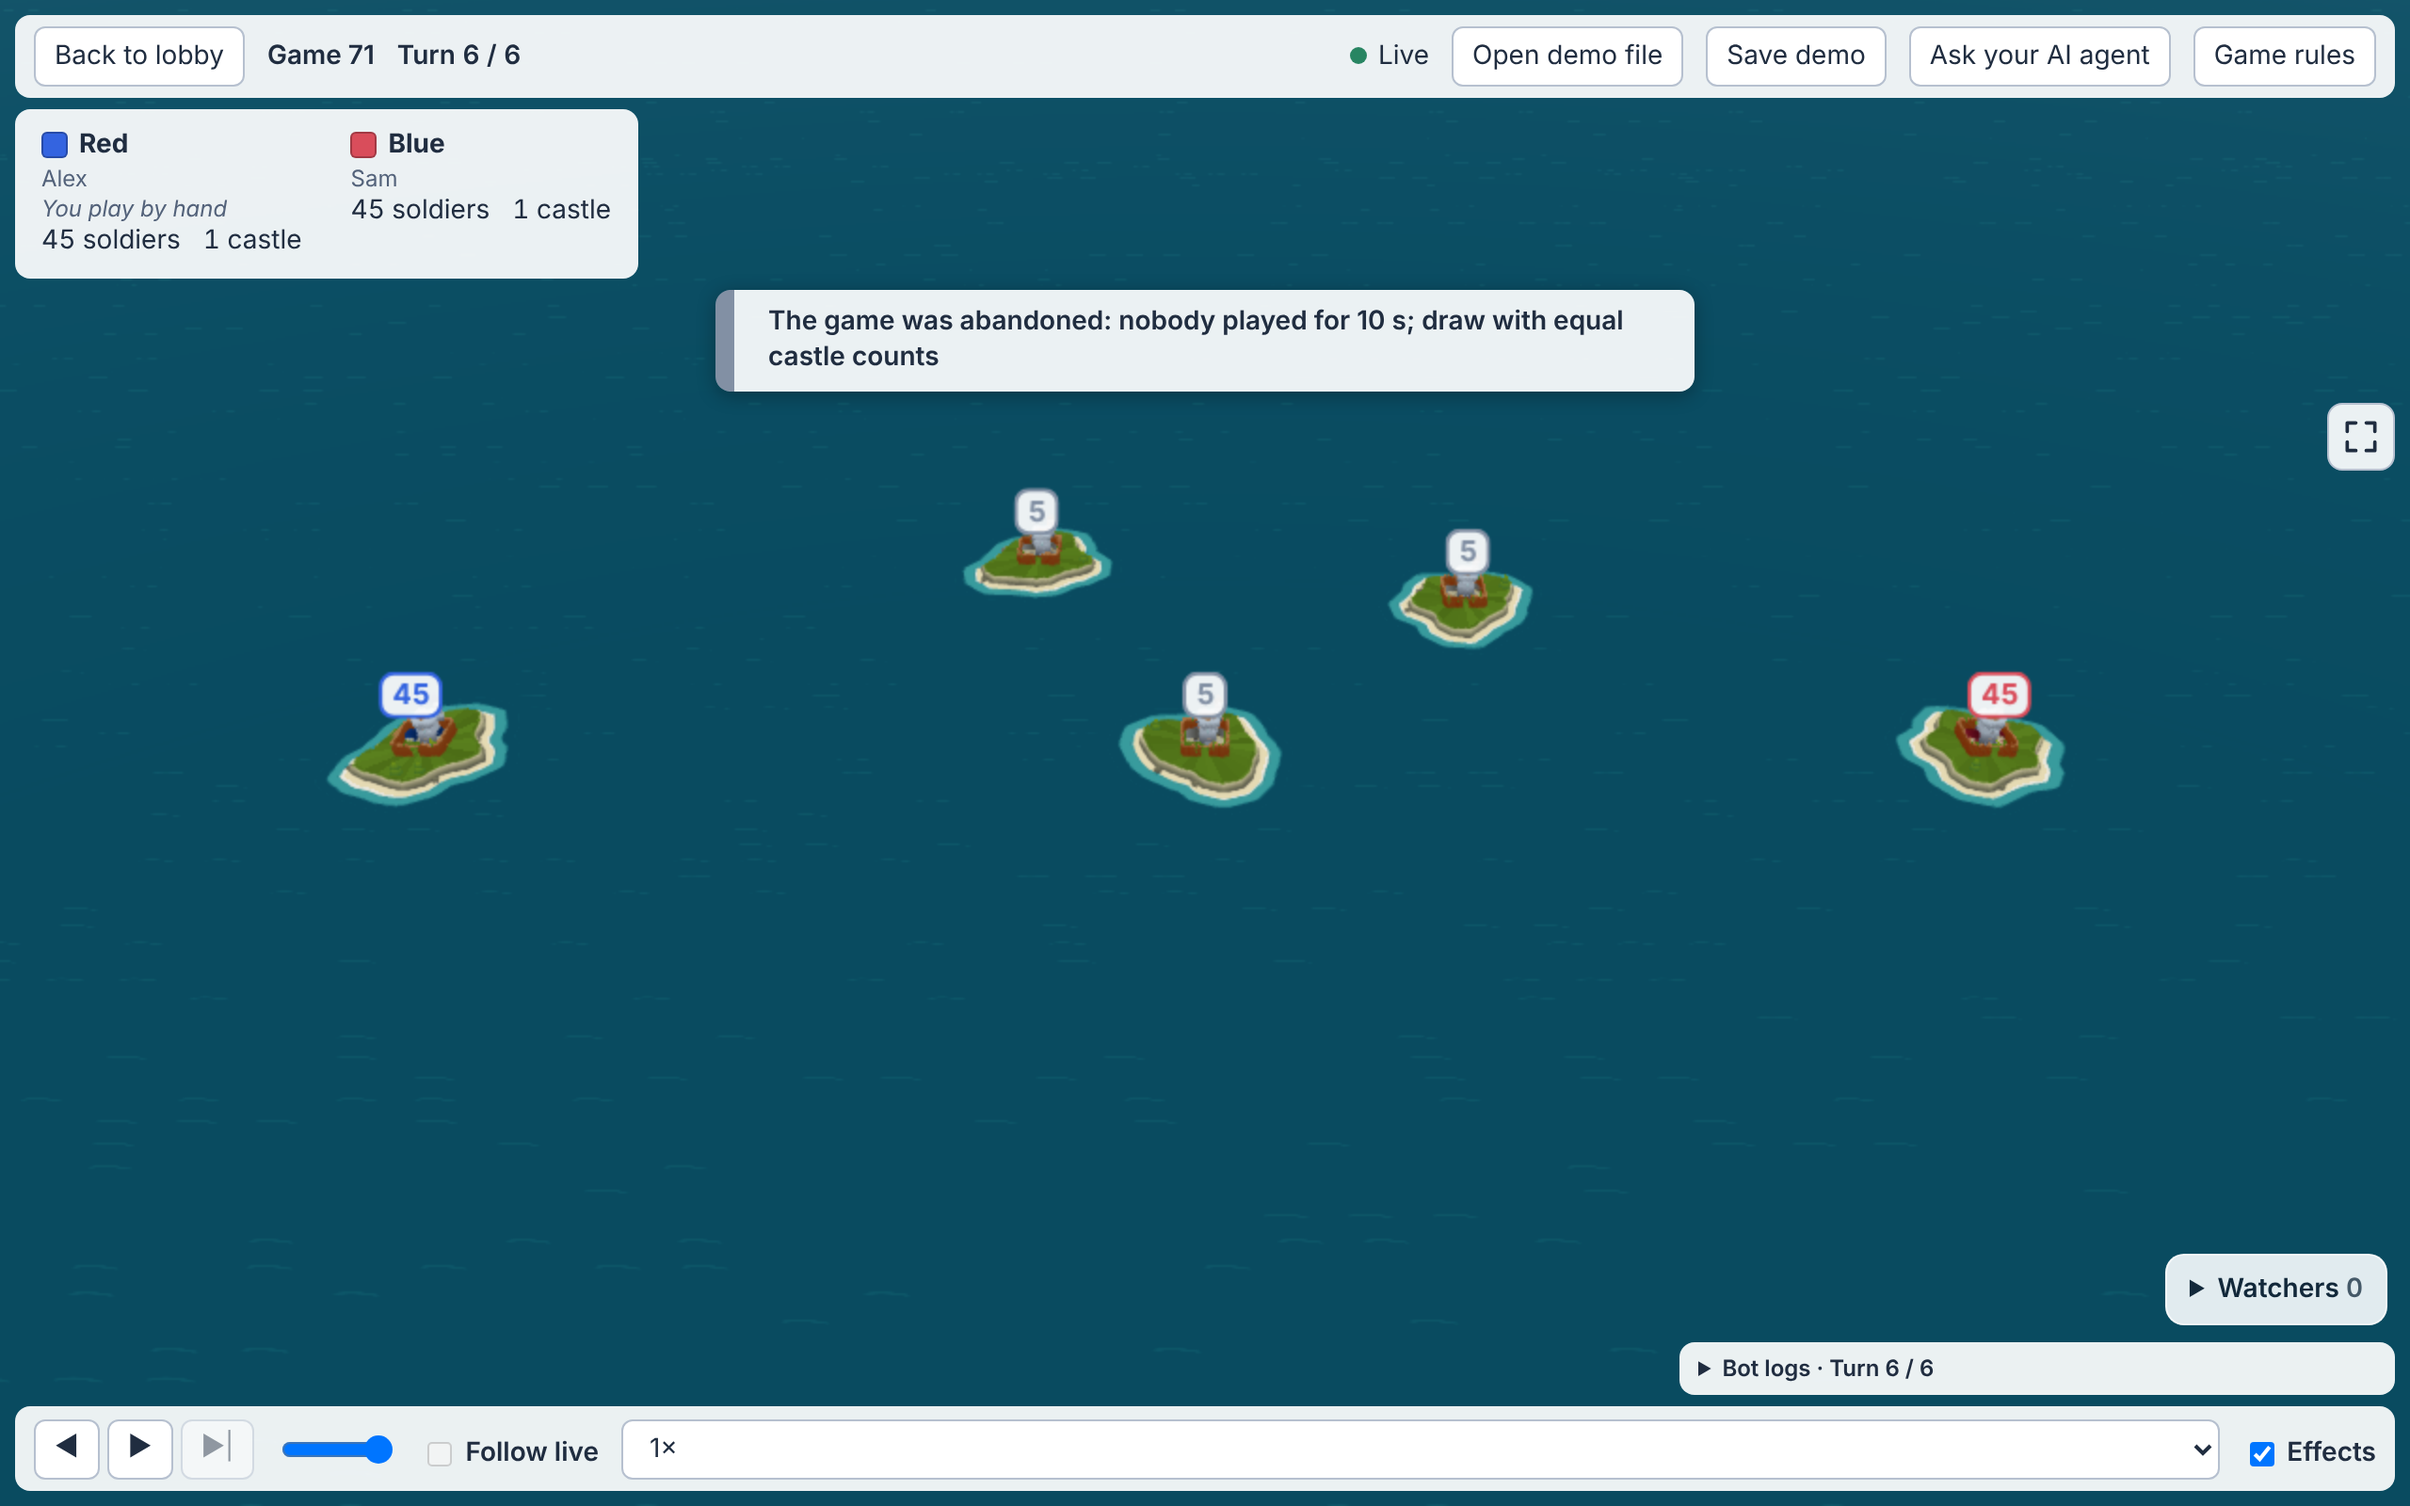
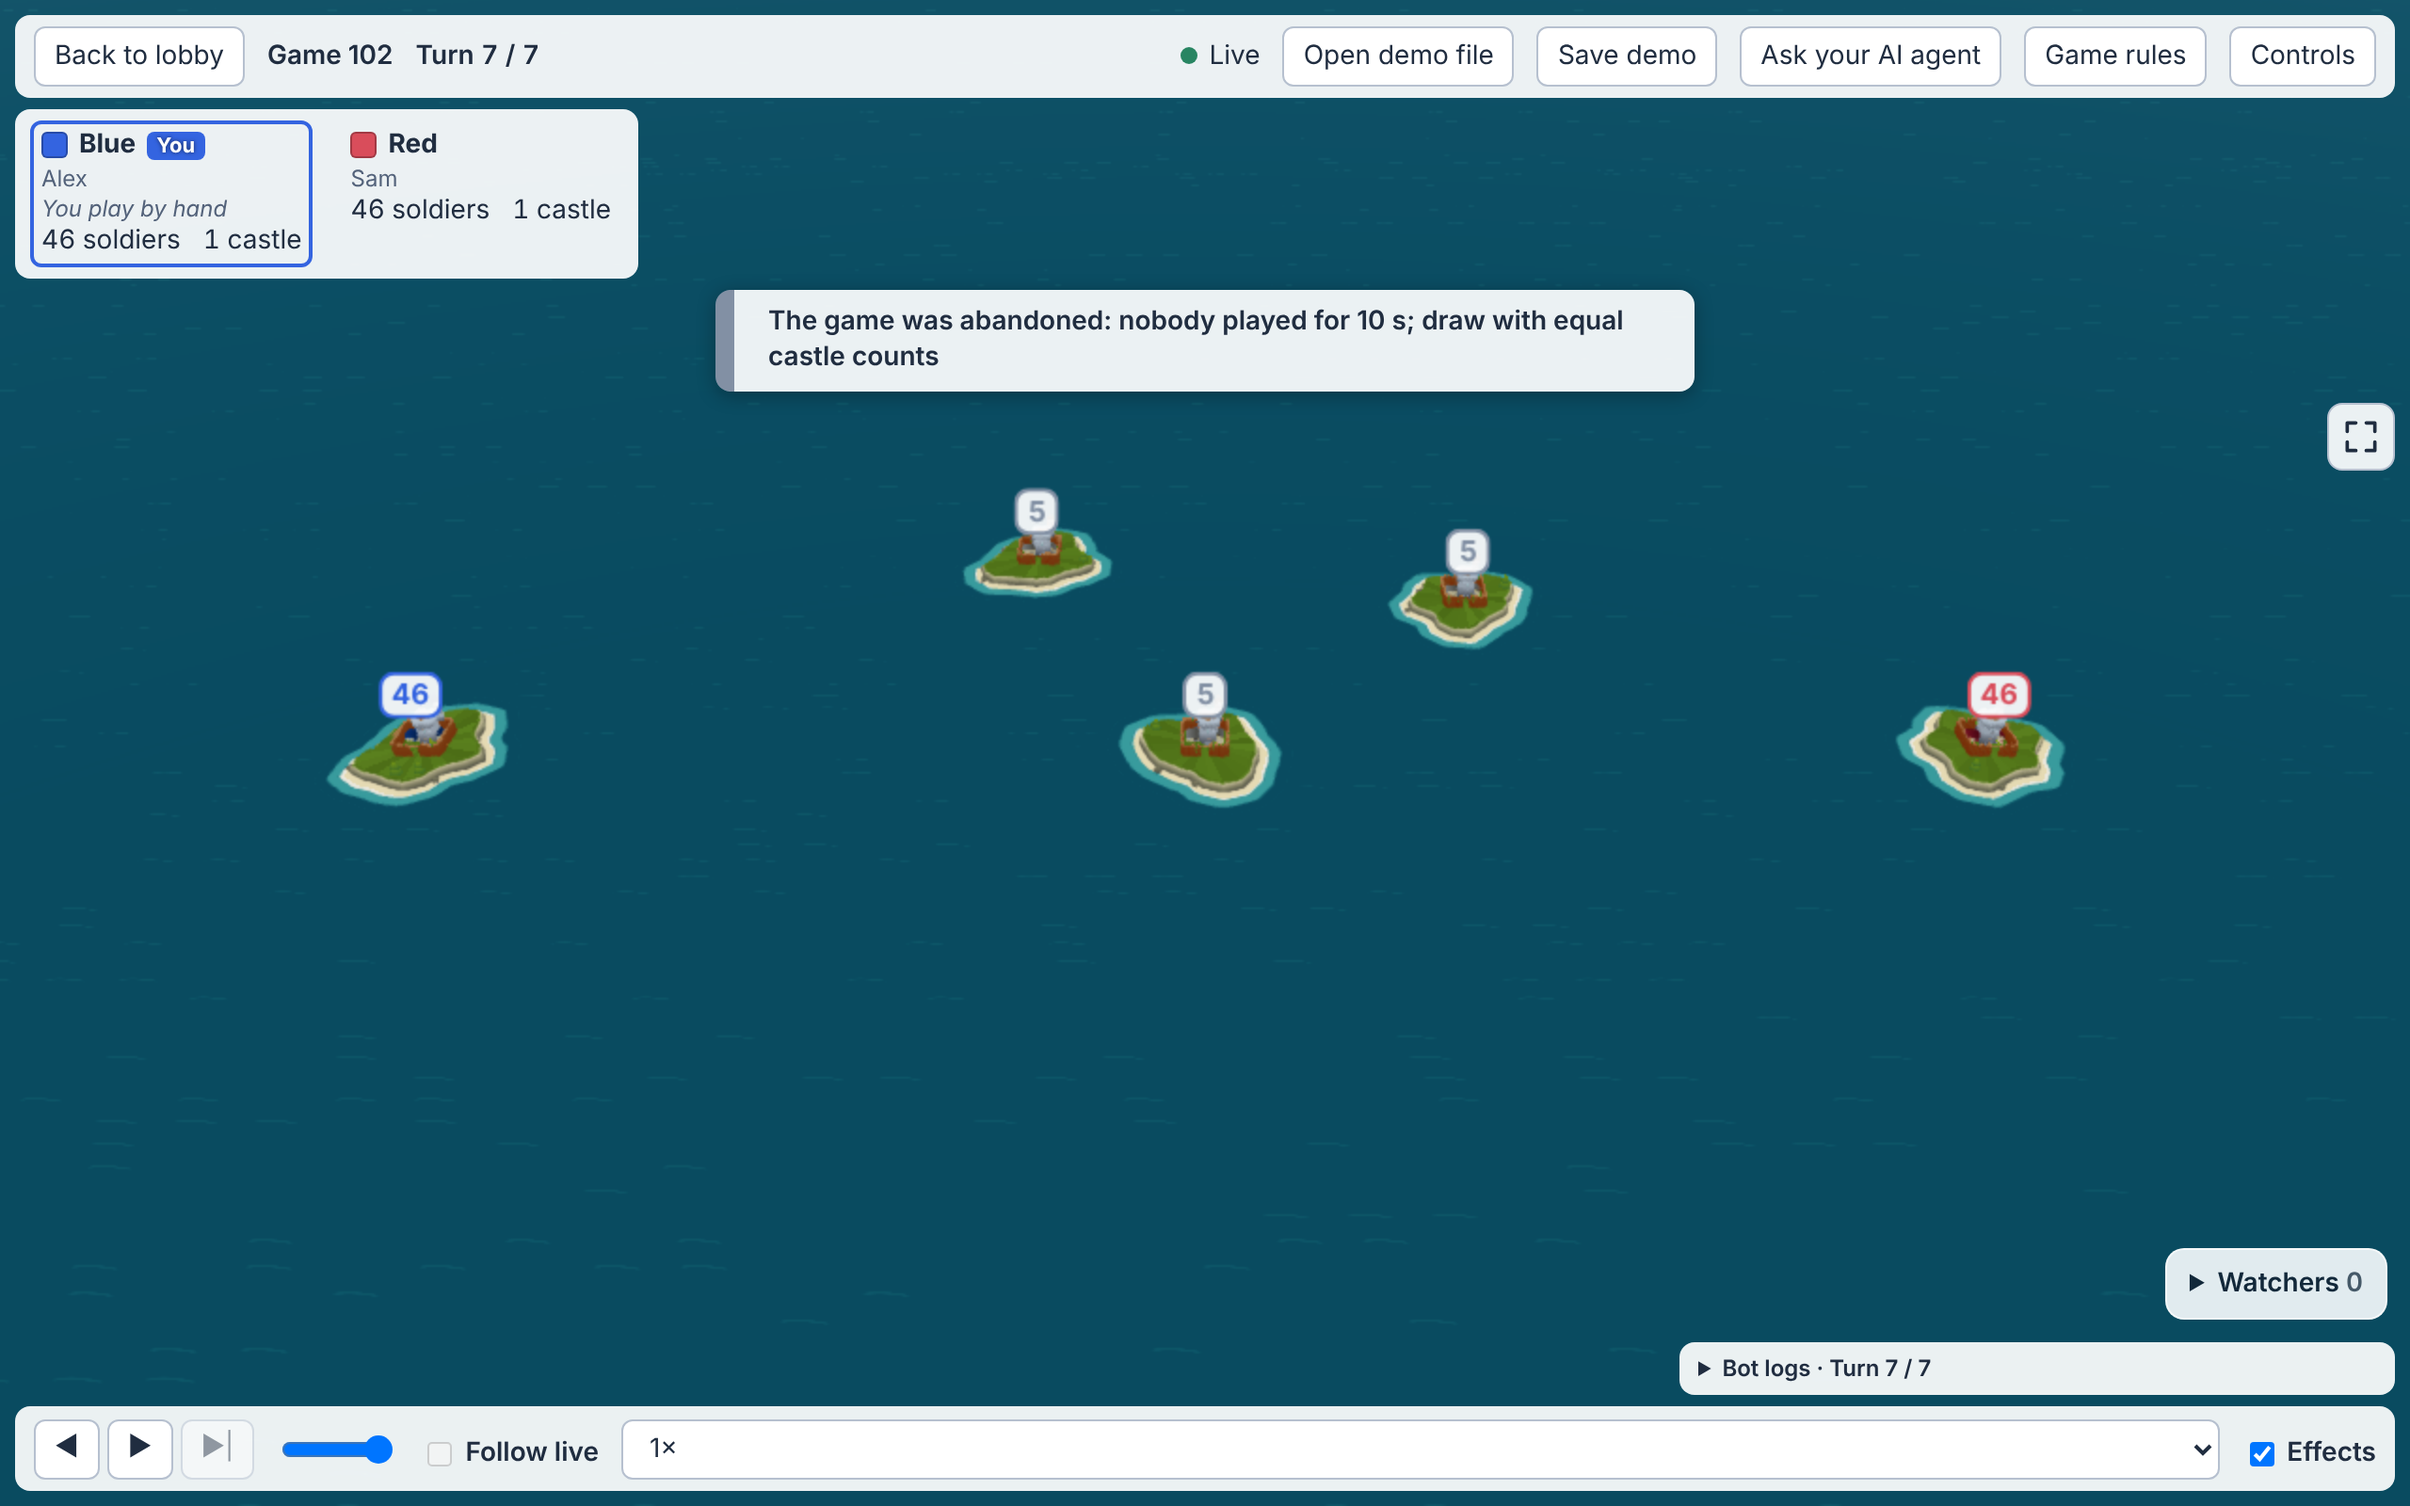
Web client: retake the Resign screenshots with the lobby's team names
Claude-Session: https://claude.ai/code/session_01R65BA6vJ4Tj887LHF4LLaG

diff --git a/clients/island-battles-web/README.md b/clients/island-battles-web/README.md
@@ -253,7 +253,7 @@ A **Game rules** button on the start screen (beside **Change name**), in the lob
 - **History** (`live.ts`): the view subscribes to the player channel first (`realtime.followGame`), then loads `GET /game/from-lobby/{lobby_id}/demo`, then merges the live generations into it by `id`, ignoring ones it holds (`history.ts`). A turn that arrives while the history loads is kept and merged after it. After a reconnect the history is read again and merged, so a turn the channel skipped is not lost. Turns are numbered by their index in the history, "Turn 37 / 120", because generation IDs have gaps.
 - **Timeline** (`controller.ts`, no DOM): play/pause, step back and forward, a scrubber and **Follow live**. Playing forward and stepping forward use the turn animation of `src/scene/animation/`; scrubbing and stepping back seek with no animation. Follow live turns off when you scrub back, and on when you return to the newest turn of a running game; pausing while following stops following. When the game has an outcome, or in a demo, nothing follows, and the timeline stays usable.
 - **HUD** (`screen.ts`): each team's name, colour and players, its soldiers (in castles and on the way) and castles for the shown turn, the turn, and a connection indicator. A player who plays by hand also sees their team marked, a turn pace bar, order feedback, a status row and a **Controls** panel: see [The hand player's view](#the-hand-players-view). In a real-time game, the card of a team that has left says **Resigned** or **Left the game** while the shown turn has the team out (`history.ts` `departureText` and `mergeDepartures`): from `GenerationState.departures` or `WatchState.departures` as turns arrive, during the game, and from the outcome's `departures` at the end, so a demo shows it too and scrubbing back to before the team left drops it.
-- **Resign** (`resign.ts`, pure, and `screen.ts`; #348): see [Resigning](#resigning). The outcome banner prints the outcome's `summary` as it is, so "Red resigned; Blue wins as the last team standing", "Red left the game: Sam didn't respond for 30 s; …" and "The game was abandoned: …" need no code; no module lists the outcome's `reason`.
+- **Resign** (`resign.ts`, pure, and `screen.ts`; #348): see [Resigning](#resigning). The outcome banner prints the outcome's `summary` as it is, so "Blue resigned; Red wins as the last team standing", "Red left the game: Sam didn't respond for 30 s; …" and "The game was abandoned: …" need no code; no module lists the outcome's `reason`.
 - **Bot logs** (`logs.ts`): a collapsible panel for the shown turn. The history carries the logs it could see when read; a live turn's logs are read with `GET .../logs?generation_id=N`. While teams are hidden it says "Logs of other teams appear when the game ends", and when the outcome arrives it reads them again. The open turn, the newest of a running game, has no settled logs yet: logs read while a turn was open (the history's newest turn while the game runs; the panel never asks for the open turn itself, though `live.ts` would mark such a read provisional too) are provisional and read again once a newer turn exists. While the open turn is on screen (following live), the panel shows the latest turn that has ended instead, and says so; while that turn's logs load it keeps showing the newest earlier turn it holds. The panel reads nothing while it is closed; while open, it reads a turn once it has stayed on screen for 300 ms, or, while the turn keeps changing, the turn on screen once a second.
 - **Demo files** (`demoFile.ts`): a TypeScript port of `backend/demoviewer/demo-file.mjs` against the generated `Demo` type, with the same checks and messages (format, `schema_version`, the 128 MiB cap, every drawn value). The file is read in the browser and uploaded nowhere. A demo from an unfinished game says so. A wrong file shows its message and leaves the game or demo shown before open.
 - **Ask your AI agent** (`agentPrompt.ts`, pure, and `screen.ts`): a button in the top bar of the live and demo views (#282). It copies a prompt for the player's AI agent to the clipboard: how to install and register the [island-battles MCP server](../island-battles-go/cmd/island-battles-mcp/README.md), the game (the lobby's join code for a live game, from the lobby snapshot or the watch, which loads the lobby's newest game; the file name for a demo), the player's team, and the turn the replay is on ("turn 40 of 57"). When the view doesn't know the lobby's code, the prompt says so and asks the player for it. Off production, the `claude mcp add` line passes the client's game and lobby URLs with `--game-url` and `--lobby-url`. When the clipboard refuses, as some web views do, the prompt shows in a text box to copy by hand.
